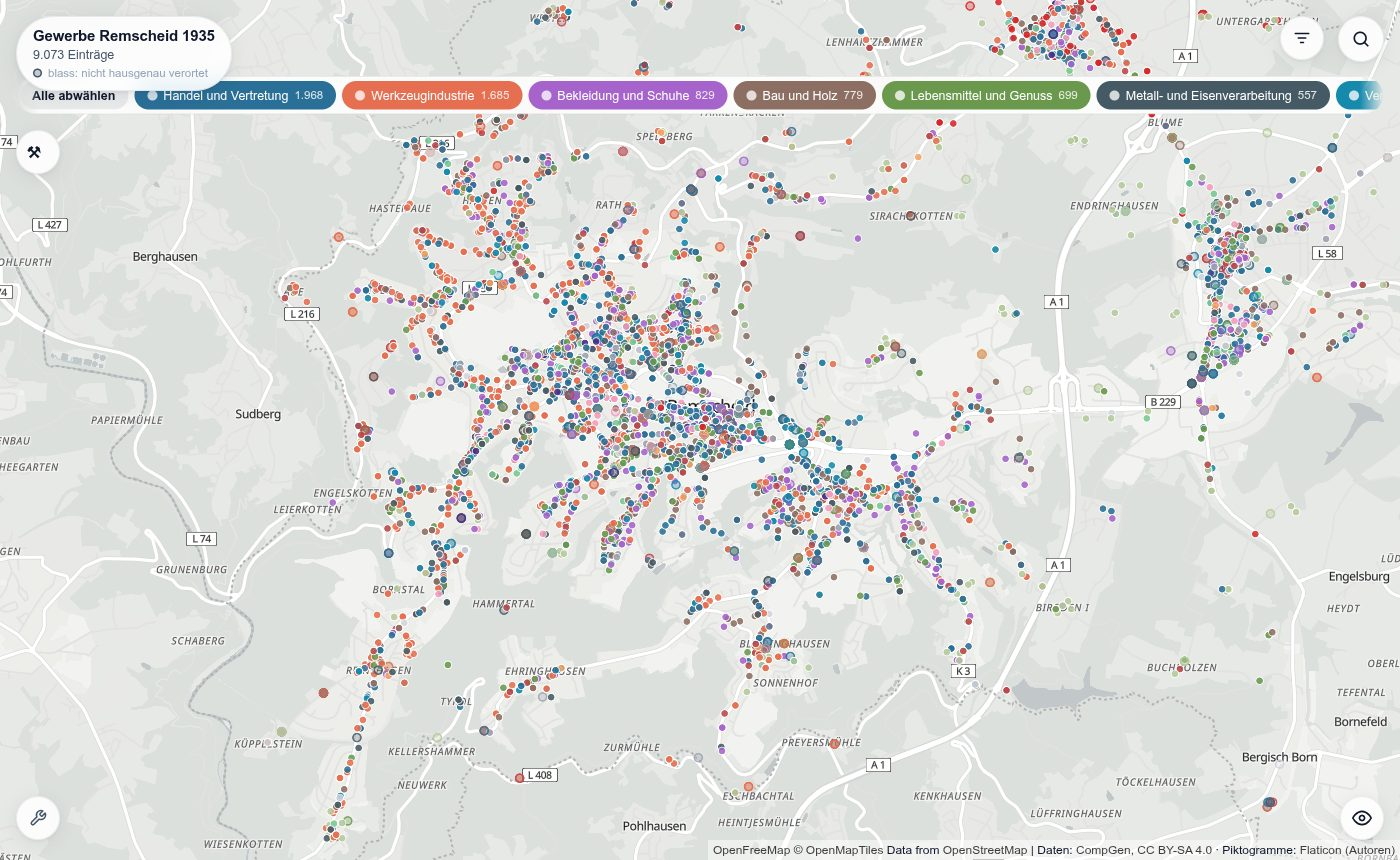
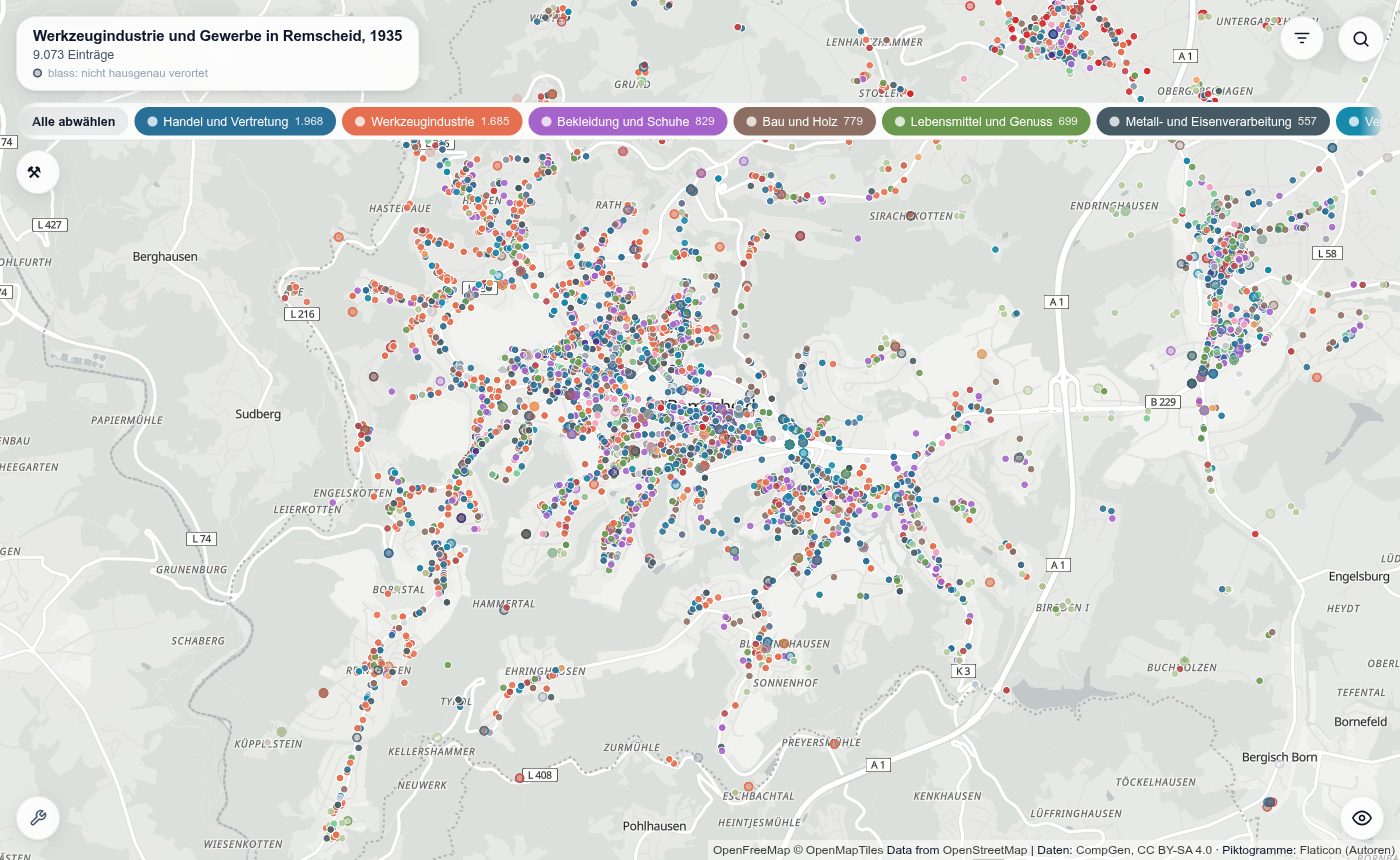
Neuer Name: Werkzeugindustrie und Gewerbe in Remscheid, 1935
Repository umbenannt in werkzeugindustrie-gewerbe-remscheid-1935; Titel
in README, Seitentitel und Titelzeile der Karte, Karten-URL und Links
in der Quellenzeile angepasst. Der laengere Titel bricht auf schmalen
Bildschirmen um und laesst Platz fuer Filter- und Suchknopf; Filterleiste
und Werkzeug-Knopf auf dem Desktop etwas tiefer, damit nichts ueberlappt.
Screenshots erneuert.

Claude-Session: https://claude.ai/code/session_01MNaw4wA4PT2y8JVFqCUBR5

Changed region(s): [[0.0, 0.0, 1.0, 0.2419]]

diff --git a/docs/index.html b/docs/index.html
@@ -4,7 +4,7 @@
   <meta charset="UTF-8" />
   <meta name="viewport" content="width=device-width, initial-scale=1, viewport-fit=cover" />
   <meta name="theme-color" content="#fafafa" />
-  <title>Gewerbe Remscheid 1935</title>
+  <title>Werkzeugindustrie und Gewerbe in Remscheid, 1935</title>
   <link rel="preconnect" href="https://tiles.openfreemap.org" crossorigin />
   <link rel="stylesheet" href="https://unpkg.com/maplibre-gl@4.7.1/dist/maplibre-gl.css" />
   <link rel="stylesheet" href="app.css" />
@@ -14,7 +14,7 @@
 
   <!-- Title-Pille oben links -->
   <div class="pill pill--title" id="titlePill">
-    <div class="pill__title">Gewerbe Remscheid 1935</div>
+    <div class="pill__title">Werkzeugindustrie und Gewerbe in Remscheid, 1935</div>
     <div class="pill__sub"><span id="countLabel">9 073</span> Einträge</div>
     <div class="pill__legende"><span class="pill__legende-punkt" aria-hidden="true"></span>blass: nicht hausgenau verortet</div>
   </div>

diff --git a/docs/app.js b/docs/app.js
@@ -93,8 +93,8 @@ const map = new maplibregl.Map({
   // die vollstaendigen Nachweise mit allen Autoren stehen in LICENSE-DATEN.md
   attributionControl: {
     customAttribution:
-      'Daten: <a href="https://github.com/rodouc6/adressbuch-remscheid1935-map/blob/main/LICENSE-DATEN.md" target="_blank" rel="noopener">CompGen, CC BY-SA 4.0</a> · ' +
-      'Piktogramme: <a href="https://github.com/rodouc6/adressbuch-remscheid1935-map/blob/main/LICENSE-DATEN.md#bildnachweise-werkzeug-piktogramme" target="_blank" rel="noopener">Flaticon (Autoren)</a>',
+      'Daten: <a href="https://github.com/rodouc6/werkzeugindustrie-gewerbe-remscheid-1935/blob/main/LICENSE-DATEN.md" target="_blank" rel="noopener">CompGen, CC BY-SA 4.0</a> · ' +
+      'Piktogramme: <a href="https://github.com/rodouc6/werkzeugindustrie-gewerbe-remscheid-1935/blob/main/LICENSE-DATEN.md#bildnachweise-werkzeug-piktogramme" target="_blank" rel="noopener">Flaticon (Autoren)</a>',
   },
 });
 

diff --git a/docs/app.css b/docs/app.css
@@ -61,6 +61,8 @@ body {
   align-items: flex-start;
   padding: 10px 16px;
   gap: 0;
+  max-width: calc(100vw - 152px);   /* Platz fuer Filter- und Suchknopf rechts */
+  border-radius: 20px;              /* Titel kann umbrechen: keine volle Pillenform */
 }
 
 /* -------- Filter -------- */
@@ -160,7 +162,7 @@ body {
 /* -------- Category Chips -------- */
 .chips {
   position: absolute;
-  top: 76px;                  /* eigene Zeile unterhalb Titel + Suche */
+  top: 102px;                 /* eigene Zeile unterhalb Titel + Suche */
   left: 50%;
   transform: translateX(-50%);
   z-index: 4;
@@ -250,7 +252,7 @@ body[data-chips-hidden="true"] .chip {
 
 /* -------- Werkzeug Quick Toggle -------- */
 .pill--quick {
-  top: 130px;
+  top: 150px;
   left: 16px;
   width: 44px; height: 44px;
   padding: 0;

diff --git a/README.md b/README.md
@@ -1,9 +1,9 @@
-# Gewerbe in Remscheid 1935
+# Werkzeugindustrie und Gewerbe in Remscheid, 1935
 
 Eine interaktive Karte der Remscheider Gewerbe aus dem Adressbuch von 1935,
 und die Aufbereitung dahinter.
 
-**Zur Karte: <https://rodouc6.github.io/adressbuch-remscheid1935-map/>**
+**Zur Karte: <https://rodouc6.github.io/werkzeugindustrie-gewerbe-remscheid-1935/>**
 
 ![Die Karte von Remscheid mit farbigen Punkten für rund 9 000 Gewerbe-Einträge, oben die Filterleiste mit den Branchen-Kategorien](docs/bilder/karte-uebersicht.jpg)
 
